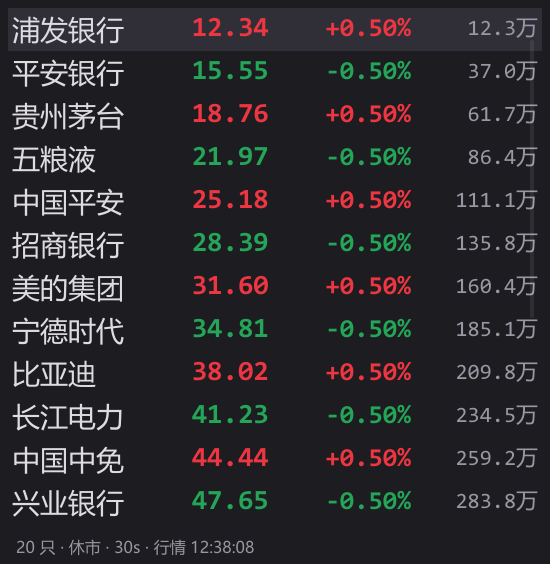
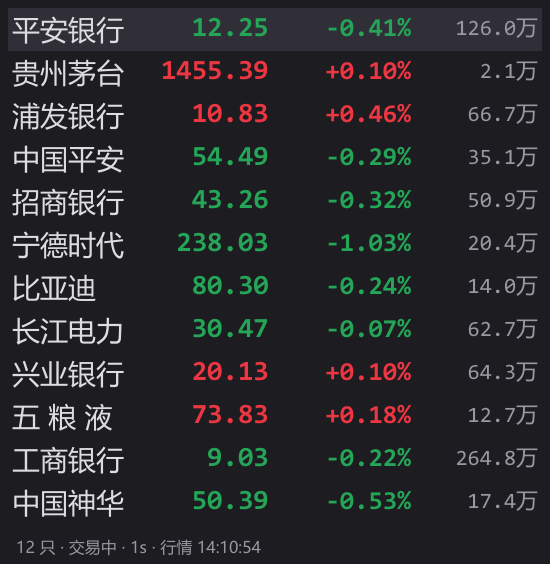
发布 2.0.1：修复置顶列表遮挡设置窗口，更新实盘截图与安装说明

diff --git a/native/src/replay_check.rs b/native/src/replay_check.rs
@@ -131,6 +131,36 @@ fn click_name(app: &App, row: usize) {
     window.dispatch_event(WindowEvent::PointerReleased { position, button });
 }
 
+#[cfg(windows)]
+fn check_dialog_order(app: &App, window: &slint::Window, topmost: bool) -> Result<()> {
+    use windows_sys::Win32::UI::{
+        Input::KeyboardAndMouse::IsWindowEnabled, WindowsAndMessaging::*,
+    };
+    let owner = hwnd(app.window.window()).context("缺少行情窗口")?;
+    let dialog = hwnd(window).context("缺少弹窗")?;
+    unsafe {
+        ensure!(
+            GetWindow(dialog, GW_OWNER) == owner
+                && IsWindowEnabled(owner) == 0
+                && IsWindowEnabled(dialog) != 0
+                && IsWindowVisible(dialog) != 0,
+            "弹窗模态状态错误"
+        );
+        for h in [owner, dialog] {
+            ensure!(
+                (GetWindowLongPtrW(h, GWL_EXSTYLE) & WS_EX_TOPMOST as isize != 0) == topmost,
+                "弹窗与行情窗口没有处于预期的置顶层"
+            );
+        }
+        let mut next = GetWindow(dialog, GW_HWNDNEXT);
+        while !next.is_null() && next != owner {
+            next = GetWindow(next, GW_HWNDNEXT);
+        }
+        ensure!(next == owner, "行情列表挡住了弹窗");
+    }
+    Ok(())
+}
+
 pub fn start(app: Rc<App>, out: PathBuf) -> Result<Timer> {
     std::fs::create_dir(&out).context("验收输出必须是新目录")?;
     let mut phase = -5_i32;
@@ -209,12 +239,21 @@ pub fn start(app: Rc<App>, out: PathBuf) -> Result<Timer> {
                         ensure!(d.get_amount() && d.get_daily(), "盘口未切换为金额与日 K");
                         capture(d.window(), &out.join("daily.png"))?;
                         d.invoke_command("close".into());
+                        #[cfg(windows)]
+                        {
+                            let mut settings = app.settings.borrow().clone();
+                            settings.always_on_top = true;
+                            app.save(settings)?;
+                        }
                         app.command("settings");
                     }
                 }
                 3 => {
                     let w = app.settings_view.borrow().as_ref().context("设置没有打开")?.clone_strong();
+                    #[cfg(windows)]
+                    check_dialog_order(&app, w.window(), true)?;
                     capture(w.window(), &out.join("settings.png"))?;
+                    w.set_topmost(false);
                     w.set_tab(1);
                     w.set_quote_index(4);
                     w.invoke_action("save".into());
@@ -223,6 +262,8 @@ pub fn start(app: Rc<App>, out: PathBuf) -> Result<Timer> {
                 }
                 4 => {
                     let w = app.search_view.borrow().as_ref().context("添加自选没有打开")?.clone_strong();
+                    #[cfg(windows)]
+                    check_dialog_order(&app, w.window(), false)?;
                     w.set_query(app.replay.as_ref().unwrap().quotes[0].symbol[..6].into());
                     w.invoke_edited();
                     w.invoke_action("search".into());

diff --git a/native/src/dialogs.rs b/native/src/dialogs.rs
@@ -267,6 +267,7 @@ fn prepare_dialog(
 #[cfg(windows)]
 mod modality {
     use super::*;
+    use anyhow::Context;
     use windows_sys::Win32::{
         Foundation::*,
         UI::{
@@ -281,6 +282,38 @@ mod modality {
         dialog: Cell<HWND>,
         was_enabled: bool,
         alive: Cell<bool>,
+    }
+    impl State {
+        fn present(&self) -> Result<()> {
+            let dialog = self.dialog.get();
+            if dialog.is_null() {
+                return Ok(());
+            }
+            unsafe {
+                if IsIconic(dialog) != 0 {
+                    ShowWindow(dialog, SW_RESTORE);
+                }
+                // Activating an ordinary tool window does not lift it above a topmost ticker.
+                let topmost =
+                    GetWindowLongPtrW(self.owner, GWL_EXSTYLE) & WS_EX_TOPMOST as isize != 0;
+                let after = if topmost { HWND_TOPMOST } else { HWND_TOP };
+                if SetWindowPos(
+                    dialog,
+                    after,
+                    0,
+                    0,
+                    0,
+                    0,
+                    SWP_NOMOVE | SWP_NOSIZE | SWP_NOOWNERZORDER | SWP_SHOWWINDOW,
+                ) == 0
+                {
+                    return Err(std::io::Error::last_os_error())
+                        .context("无法将弹窗置于行情列表前面");
+                }
+                SetForegroundWindow(dialog);
+            }
+            Ok(())
+        }
     }
     pub(super) struct Guard(Box<State>);
     impl Guard {
@@ -321,9 +354,8 @@ mod modality {
                     GWL_EXSTYLE,
                     (style | WS_EX_TOOLWINDOW as isize) & !(WS_EX_APPWINDOW as isize),
                 );
-                SetForegroundWindow(dialog);
             }
-            Ok(())
+            self.0.present()
         }
     }
     impl Drop for Guard {
@@ -350,9 +382,7 @@ mod modality {
         unsafe {
             let state = &*(data as *const State);
             if matches!(message, WM_HOTKEY | WM_CLOSE | 0x8001 | 0x8002 | 0x8003) {
-                if !state.dialog.get().is_null() {
-                    SetForegroundWindow(state.dialog.get());
-                }
+                let _ = state.present();
                 return 0;
             }
             if message == WM_NCDESTROY {

diff --git a/README.md b/README.md
@@ -1,27 +1,24 @@
 # 轻盘 · 桌面看盘助手
 
-轻盘是一款轻量的桌面行情小窗，提供股票行情与盘口查看，支持自选股管理、数据源切换和个性化设置，以低资源占用和稳定刷新为核心。
+轻盘把股票行情、自选股和五档盘口放进一个可置顶的桌面行情小窗。鼠标停在股票名称上即可查看分时走势和最近成交。
 
-轻盘是独立的 **Windows x64 原生桌面程序**，使用 **Rust + Slint**，默认采用软件渲染。下载后即可运行，无需安装 .NET、Python、浏览器内核或 Rust 开发环境。图标采用深红底色的“轻”字。
-
-本页说明适用于 **v2.0.0 及更新的 Windows x64 原生版**。正式程序从本仓库的 [官方最新发布页](https://github.com/Alexzzz2008/LiteTicker/releases/latest) 下载；下载前先确认页面标签为 **v2.0.0 或更高版本**。
+**当前正式版为 v2.0.1，适用于 Windows x64。** 程序使用 Rust + Slint 和软件渲染，无需安装 .NET 或 VC++ 运行库。[GitHub 正式版](https://github.com/Alexzzz2008/LiteTicker/releases/tag/v2.0.1)
 
 ## 下载与使用
 
 ### 首次安装（推荐）
 
-1. 打开 [官方最新发布页](https://github.com/Alexzzz2008/LiteTicker/releases/latest)，在 **Assets（发布资产）** 中下载 `LiteTicker-win.zip`。
-2. 右键 ZIP，选择 **全部解压**。不要直接在压缩包内运行安装入口；解压后让 `LiteTicker.exe`、`LiteTicker.exe.sha256`、`install.ps1`、`install.cmd` 保持在同一文件夹。
-3. 双击解压目录中的 **`install.cmd`**。安装器会校验并复制程序、创建桌面快捷方式，然后自动启动轻盘。
-4. 以后双击桌面的 **“轻盘 · 桌面看盘助手”** 快捷方式启动。默认安装目录是 `%LOCALAPPDATA%\Programs\LiteTicker`；如果已有 `D:\LiteTicker\LiteTicker.exe`，则继续安装到 `D:\LiteTicker`。
-
-无需安装 .NET Framework、VC++ 运行库或 Rust。请下载发布资产，不要把 GitHub 的 **Source code** 或 **Code → Download ZIP** 源码压缩包当作安装包。
+1. 下载 [Windows 安装包](https://github.com/Alexzzz2008/LiteTicker/releases/download/v2.0.1/LiteTicker-win.zip)。如果 GitHub 下载缓慢，可用[代理下载](https://gh-proxy.com/https://github.com/Alexzzz2008/LiteTicker/releases/download/v2.0.1/LiteTicker-win.zip)。
+2. 右键 ZIP，选择 **全部解压**，然后双击解压目录中的 **`install.cmd`**。安装器会校验程序、创建桌面快捷方式并启动轻盘。
+3. 下次双击桌面的 **“轻盘 · 桌面看盘助手”** 即可启动。新安装默认保存在 `%LOCALAPPDATA%\Programs\LiteTicker`。
 
 ### 免安装运行
 
-在同一个发布页下载 **`LiteTicker.exe`**，放到准备长期保留的文件夹，直接双击运行；也可以完整解压 `LiteTicker-win.zip` 后直接运行其中的 EXE。此方式不会自动创建桌面快捷方式，以后仍从该文件夹启动。
+将单文件程序保存到准备长期使用的文件夹，双击 **`LiteTicker.exe`** 即可启动。也可以直接运行上述安装包里解压出的 EXE。[下载单文件程序](https://github.com/Alexzzz2008/LiteTicker/releases/download/v2.0.1/LiteTicker.exe) · [代理下载](https://gh-proxy.com/https://github.com/Alexzzz2008/LiteTicker/releases/download/v2.0.1/LiteTicker.exe)
 
-官方最新版直链：[安装包](https://github.com/Alexzzz2008/LiteTicker/releases/latest/download/LiteTicker-win.zip) · [单文件程序](https://github.com/Alexzzz2008/LiteTicker/releases/latest/download/LiteTicker.exe)。下载缓慢时可使用代理：[安装包加速](https://gh-proxy.com/https://github.com/Alexzzz2008/LiteTicker/releases/latest/download/LiteTicker-win.zip) · [单文件加速](https://gh-proxy.com/https://github.com/Alexzzz2008/LiteTicker/releases/latest/download/LiteTicker.exe)；版本号和校验文件仍以官方发布页为准。
+### 从 v2.0.0 更新
+
+在行情小窗右键打开 **设置 → 版本与更新**，点击 **检查更新**，看到 **v2.0.1** 后选择 **下载并重启**。重启后回到此页，确认“当前版本”为 v2.0.1。此次修复了股票列表置顶时遮住设置窗口的问题。
 
 ### 从 v1.0.5 升级
 
@@ -41,40 +38,38 @@
 - **隐藏：**行情窗右键选 **“隐藏到托盘”**，或关闭窗口、按 `Alt+F4`。隐藏后暂停行情请求，程序仍在运行。
 - **重新显示：**双击任务栏右侧的轻盘托盘图标，或在托盘菜单选 **“显示 / 隐藏”**；默认 `Ctrl+Alt+Q` 也可显示／隐藏。托盘图标可能收在任务栏的 **^（显示隐藏的图标）** 中。
 - **完全退出：**托盘右键选 **“退出轻盘”**，或行情窗右键选 **“退出”**。升级或移动 EXE 前先完全退出。
-- **确认版本：**行情窗右键选 **“设置”**，或托盘选 **“设置 / 快捷键”**，进入 **“版本与更新”**，查看 **“当前版本”**。本次升级完成后应显示 **v2.0.0**；以后以下载发布页的版本号为准。
+- **确认版本：**行情窗右键选 **“设置”**，或托盘选 **“设置 / 快捷键”**，进入 **“版本与更新”**，查看 **“当前版本”**。本次升级完成后应显示 **v2.0.1**；以后以下载发布页的版本号为准。
 
 ## 体积与内存
 
-2.0.0 的单文件程序约 **11.6 MiB**，ZIP 下载包约 **6.0 MiB**。1 MiB = 1,048,576 字节。
+Windows x64 单文件程序约 **11.7 MiB**，ZIP 安装包约 **6.1 MiB**。作为对照，v2.0.0 的 GitHub 下载件分别为 12,253,696 和 6,447,624 字节。1 MiB = 1,048,576 字节。
 
-| 本地实测场景 | 专用工作集（中位数） | 总工作集（中位数） |
-| --- | ---: | ---: |
-| 仅行情小窗 | 4.9 MiB | 35.2 MiB |
-| 行情小窗 + 固定盘口 | 9.9 MiB | 32.1 MiB |
+| Windows 11 实盘场景 | 专用工作集（中位数） | 总工作集（中位数） | 样本数 |
+| --- | ---: | ---: | ---: |
+| 仅行情小窗 | 13.1 MiB | 50.0 MiB | 60 |
+| 行情小窗和设置窗口 | 16.5 MiB | 53.5 MiB | 24 |
 
-实测环境为 Windows 11 x64、200% 缩放，使用正式 2.0.0 软件渲染版和默认字号。20 只自选固定回放、每秒刷新；主窗为 550×564 像素，盘口为 960×840 像素。每个场景独立启动，预热 20 秒后每秒采样，共 60 次，取中位数。
-
-专用工作集是进程独占的驻留物理内存，总工作集还包含共享页，数值会随系统调度波动。以上为单机短测；真实行情请求、自选数量、字号和打开的页面会影响实际占用。
+测量使用 GitHub 下载的 v2.0.0，运行于 Windows 11 x64，系统缩放为 200%。程序加载 9 只自选股，通过腾讯接口每秒请求行情。两个场景分别观察约 51 秒和 23 秒，按同一进程的 Windows 工作集计数取中位数。专用工作集是进程独占的驻留物理内存，总工作集还包括共享页。自选数量、打开的页面和系统调度都会影响读数。
 
 ## 界面预览
 
-以下为 v2.0.0 正式程序的实际界面，使用固定行情回放展示布局；图中数据用于界面演示。
+行情截图取自 2026 年 11 月 17 日北京时间 13:53 的腾讯盘中行情快照。平安银行（000001.SZ）的分时曲线包含接口返回的 176 个分钟点，五档旁列出当时最近的 10 笔成交。
 
 **桌面行情小窗**
 
-![v2.0.0桌面股票行情与自选股](assets/screenshots/desktop-quotes.png)
+![桌面行情小窗中的十二只自选股](assets/screenshots/desktop-quotes.png)
 
 **盘口、分时与五档**
 
-![v2.0.0五档盘口、分时图和十行近期成交](assets/screenshots/depth-and-menu.png)
+![平安银行真实盘中分时、五档盘口及最近十笔成交](assets/screenshots/depth-and-menu.png)
 
 **设置界面**
 
-![v2.0.0轻盘深红设置界面](assets/screenshots/settings.png)
+![轻盘设置界面](assets/screenshots/settings.png)
 
 **添加自选**
 
-![v2.0.0编号搜索与多选添加](assets/screenshots/add-symbols.png)
+![按编号搜索股票并加入自选](assets/screenshots/add-symbols.png)
 
 ## 功能
 
@@ -118,8 +113,8 @@
 
 ## 本地数据
 
-设置与自选列表保存在 `%LOCALAPPDATA%\LiteTicker\settings.json`，不上传到 GitHub。2.0.0 兼容 v1.0.5 的正式配置，保留自选顺序、数据源、字号、快捷键和窗口位置。复制此文件可迁移自选和设置；复制前先在托盘中退出轻盘。保存设置时先写临时文件，再替换原文件，并保留上一份 `settings.json.bak`。
+设置与自选列表保存在 `%LOCALAPPDATA%\LiteTicker\settings.json`，不上传到 GitHub。原生版兼容 v1.0.5 的正式配置，保留自选顺序、数据源、字号、快捷键和窗口位置。复制此文件可迁移自选和设置；复制前先在托盘中退出轻盘。保存设置时先写临时文件，再替换原文件，并保留上一份 `settings.json.bak`。
 
 已有正式配置时以它为准；若只使用过 Rust 预览且没有正式配置，首次启动会从同一用户的 `%LOCALAPPDATA%\LiteTicker-preview\settings.json` 复制自选和设置。
 
-2.0.0 的更新包来自本仓库的 GitHub Releases，下载后校验 SHA-256、大小以及原生程序身份和版本。替换程序时保留 `LiteTicker.exe.previous` 旧版备份；自选股和设置不包含在更新包中。
+原生版的更新包来自本仓库的 GitHub Releases，下载后校验 SHA-256、大小以及原生程序身份和版本。替换程序时保留 `LiteTicker.exe.previous` 旧版备份；自选股和设置不包含在更新包中。

diff --git a/native/MIGRATION.md b/native/MIGRATION.md
@@ -4,6 +4,8 @@
 
 v2.0.0 使用 Rust 与 Slint 构建 Windows x64 单文件。发布候选在 Windows 11 上验证了行情、盘口、设置和自选页面、透明度、托盘及更新替换和回滚。Windows 10 22H2 的独立验收待补。
 
+后续提交按补丁版本逐次加一，同步 Cargo 版本、Windows 版本资源与清单，以对应的 Git 标签发布，便于上一版通过“版本与更新”验收。
+
 - 自选代码/首字母搜索、显式选择、批量去重与排序保持一致。
 - 腾讯/东财的数据契约、价格精度、手数与金额单位保持一致；新浪仍未接入。
 - 行情、图表、成交独立取消及丢弃迟到响应；隐藏后停止请求，恢复立即刷新。
